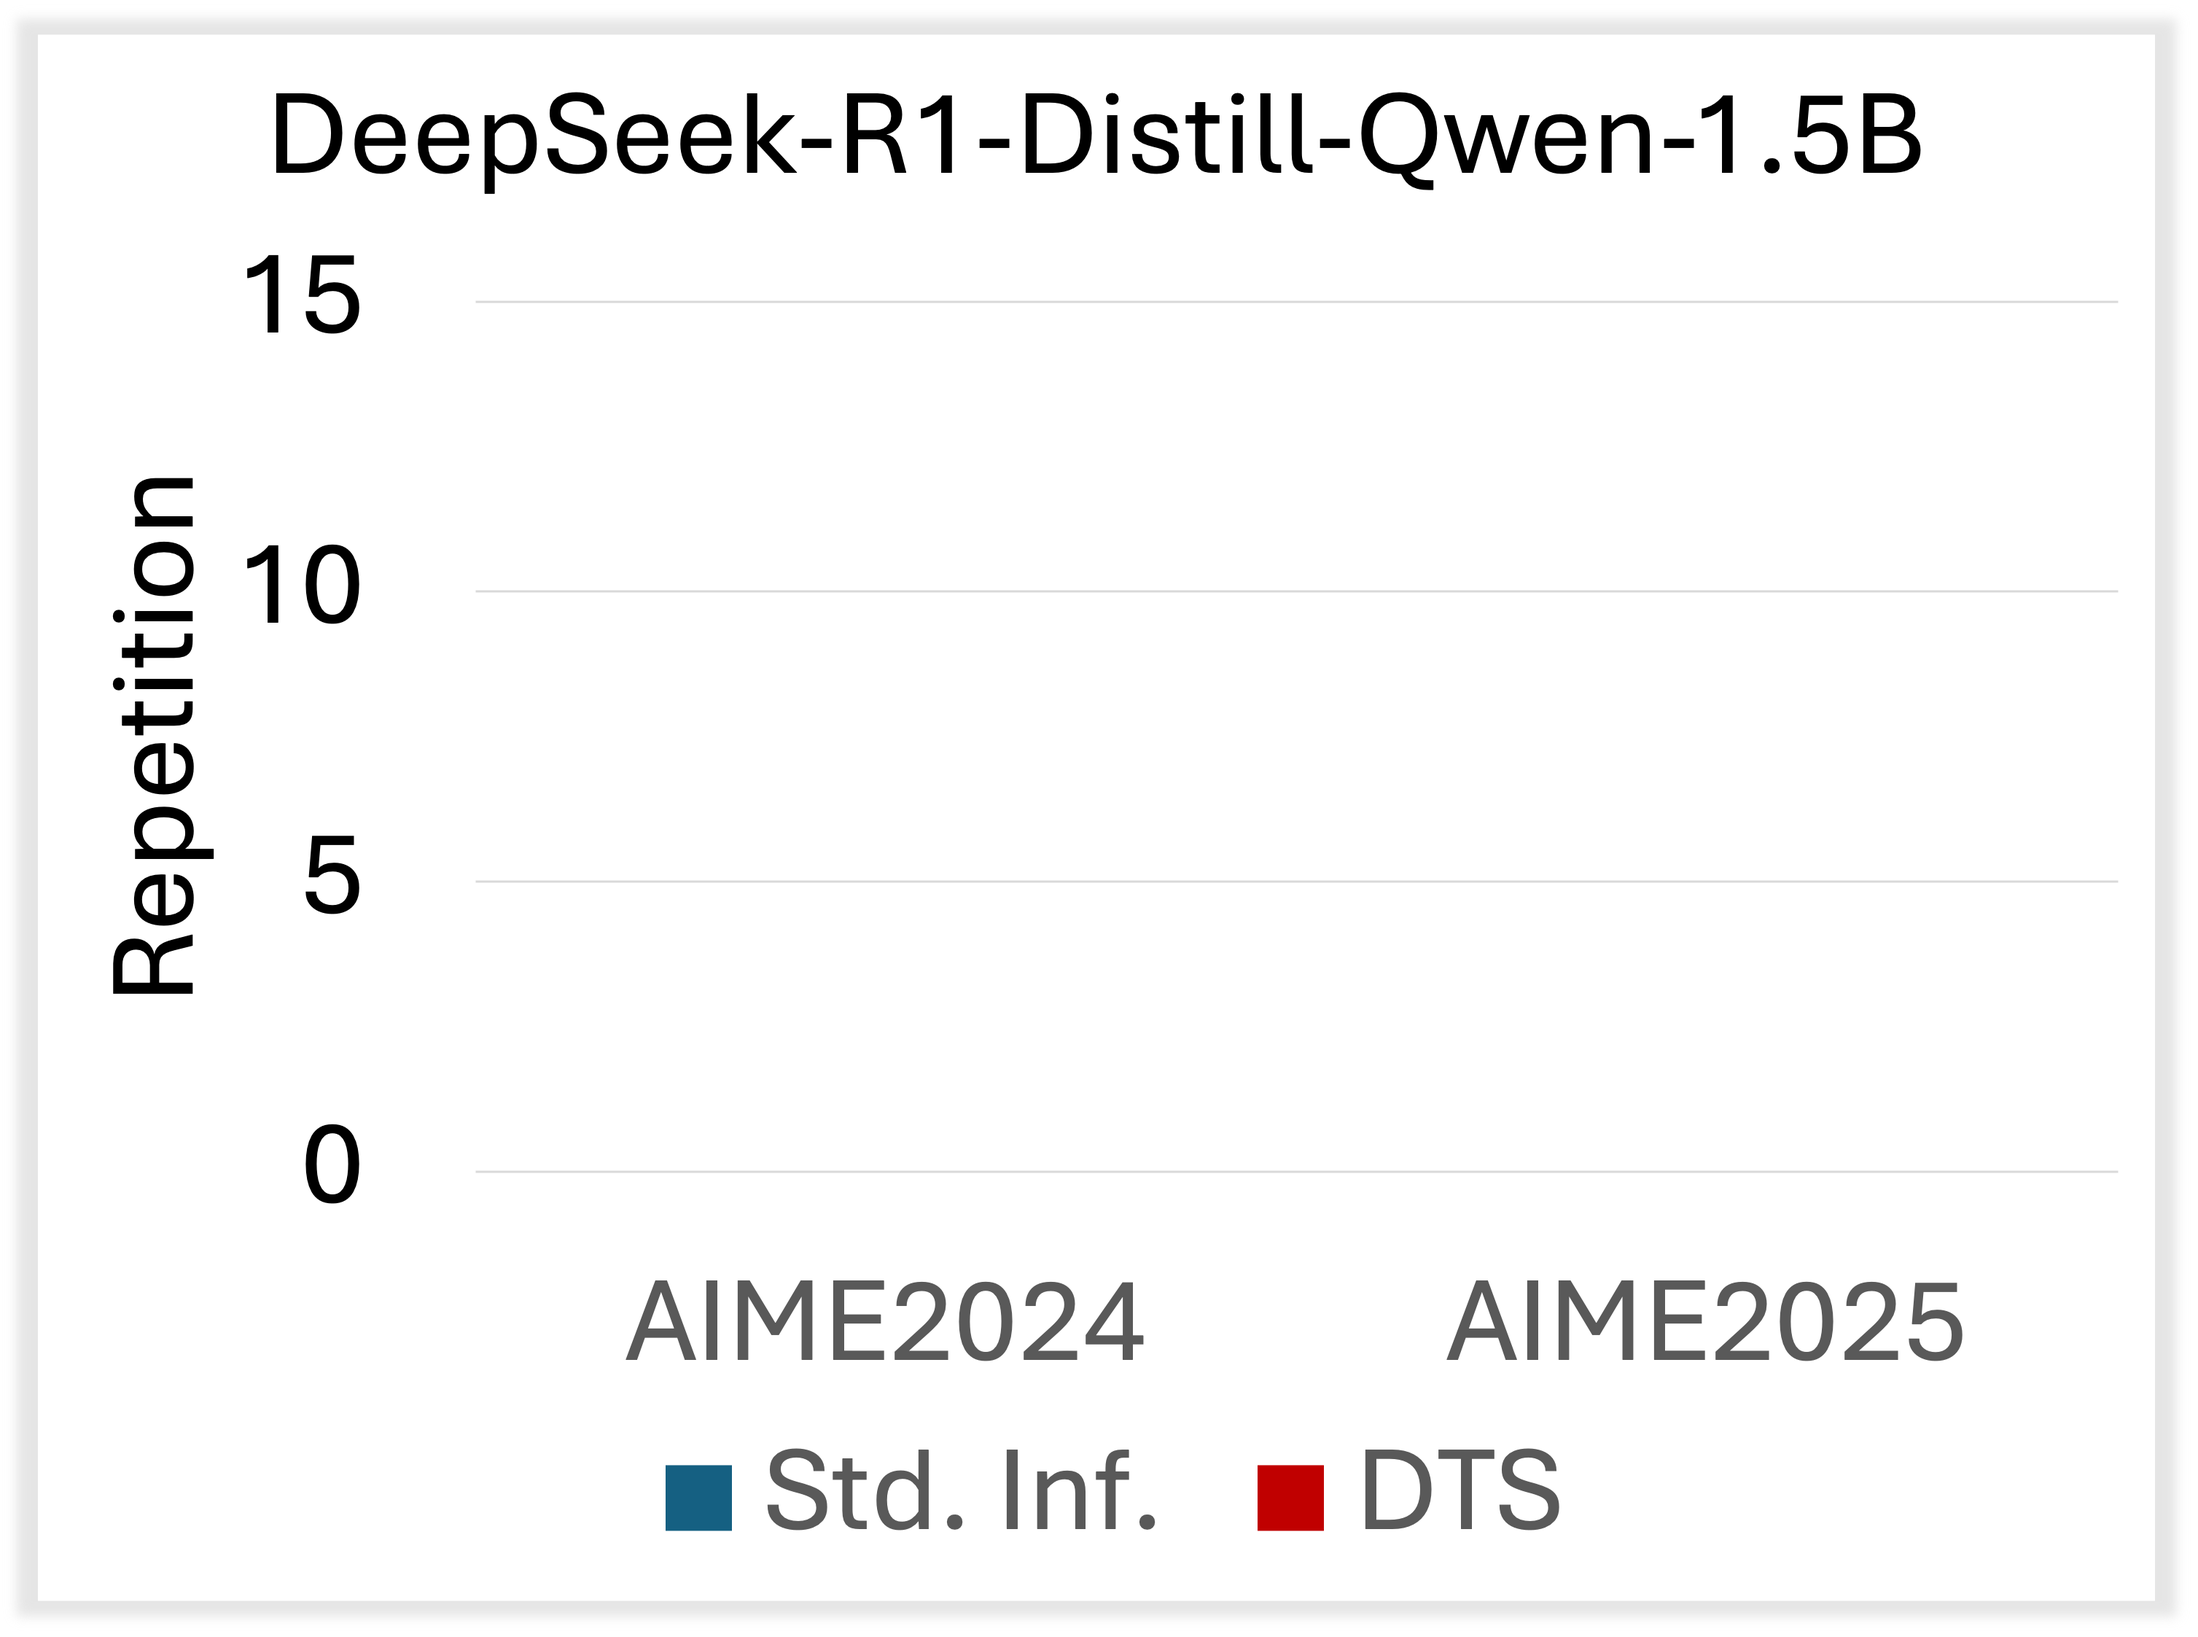
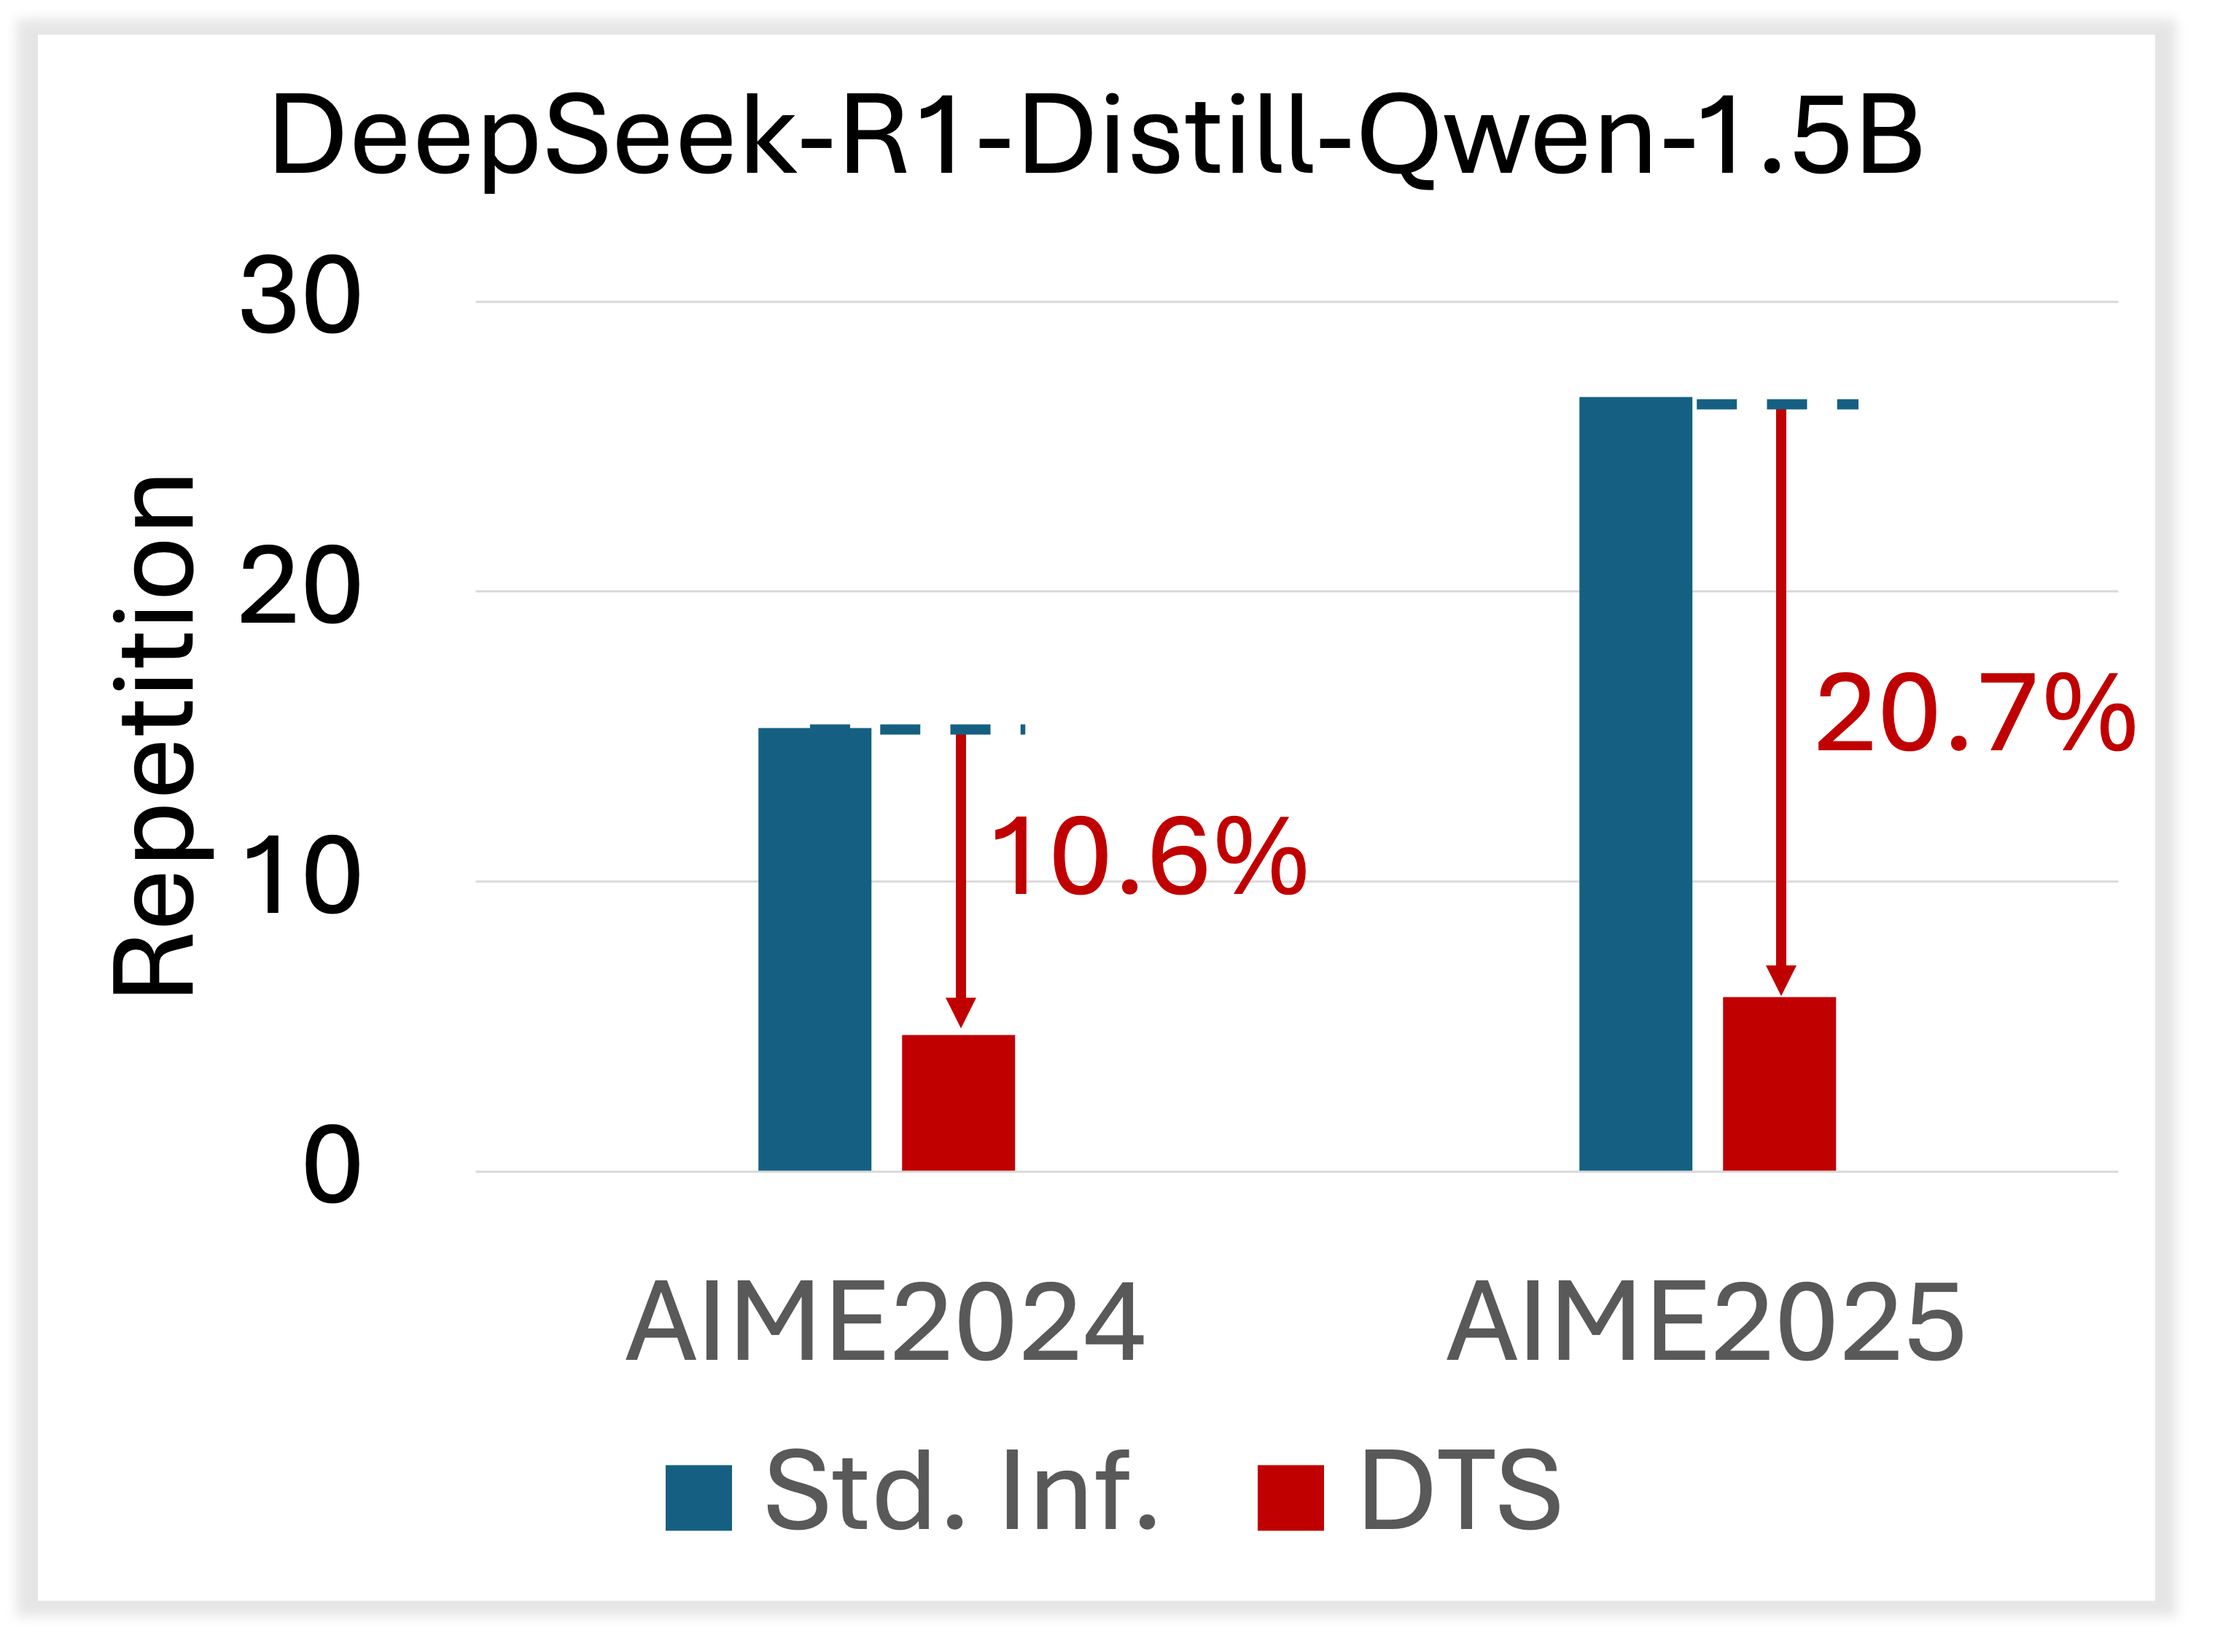
update readme

diff --git a/README.md b/README.md
@@ -21,14 +21,20 @@
 
 ## 🎯 About
 
-Decision Tree Sketching (DTS) is for Large Reasoning Models
+Decision Tree Sketching (DTS) is a **Training-free** method designed to enhance the reasoning capability of Large Reasoning Models (LRMs). On the AIME benchmark, DTS has substantial improvements:
 
-- DTS can run 
-- improves **accuracy** by up to **8.0%**
-- reduces **repetition frequency** by up to **80%**
-- reduces **average reasoning length** by over **20%**
+- Increases accuracy by up to **8.0%**
+- Reduces repetition frequency by up to 80%
+- Shortens average reasoning length by over 20%
 
-<img src="./result/fig/deepseek-qwen3-7B-acc.png" alt="Alt text" width="200"><img src="./result/fig/deepseek-qwen3-7B-repetition.png" alt="Alt text" width="200"><img src="./result/fig/deepseek-qwen3-1.5B-acc.png" alt="Alt text" width="220"><img src="./result/fig/deepseek-qwen3-1.5B-repetition.png" alt="Alt text" width="220">
+Decision Tree Sketching (DTS) is a **Training-free** method to improve the reasoning capability of Large Reasoning Models. On the AIME datasets, it 
+
+
+- DTS improves **accuracy** by up to **8.0%**
+- DTS reduces **repetition frequency** by up to **80%**
+- DTS reduces **average reasoning length** by over **20%**
+
+<img src="./result/fig/deepseek-qwen3-7B-acc.png" alt="Alt text" width="200"><img src="./result/fig/deepseek-qwen3-7B-repetition.png" alt="Alt text" width="200"><img src="./result/fig/deepseek-qwen3-1.5B-acc.png" alt="Alt text" width="210"><img src="./result/fig/deepseek-qwen3-1.5B-repetition.png" alt="Alt text" width="210">
 
 > **Note:** All experiments were conducted on NVIDIA H200 GPUs. Results may vary slightly depending on your specific hardware configuration.
 
